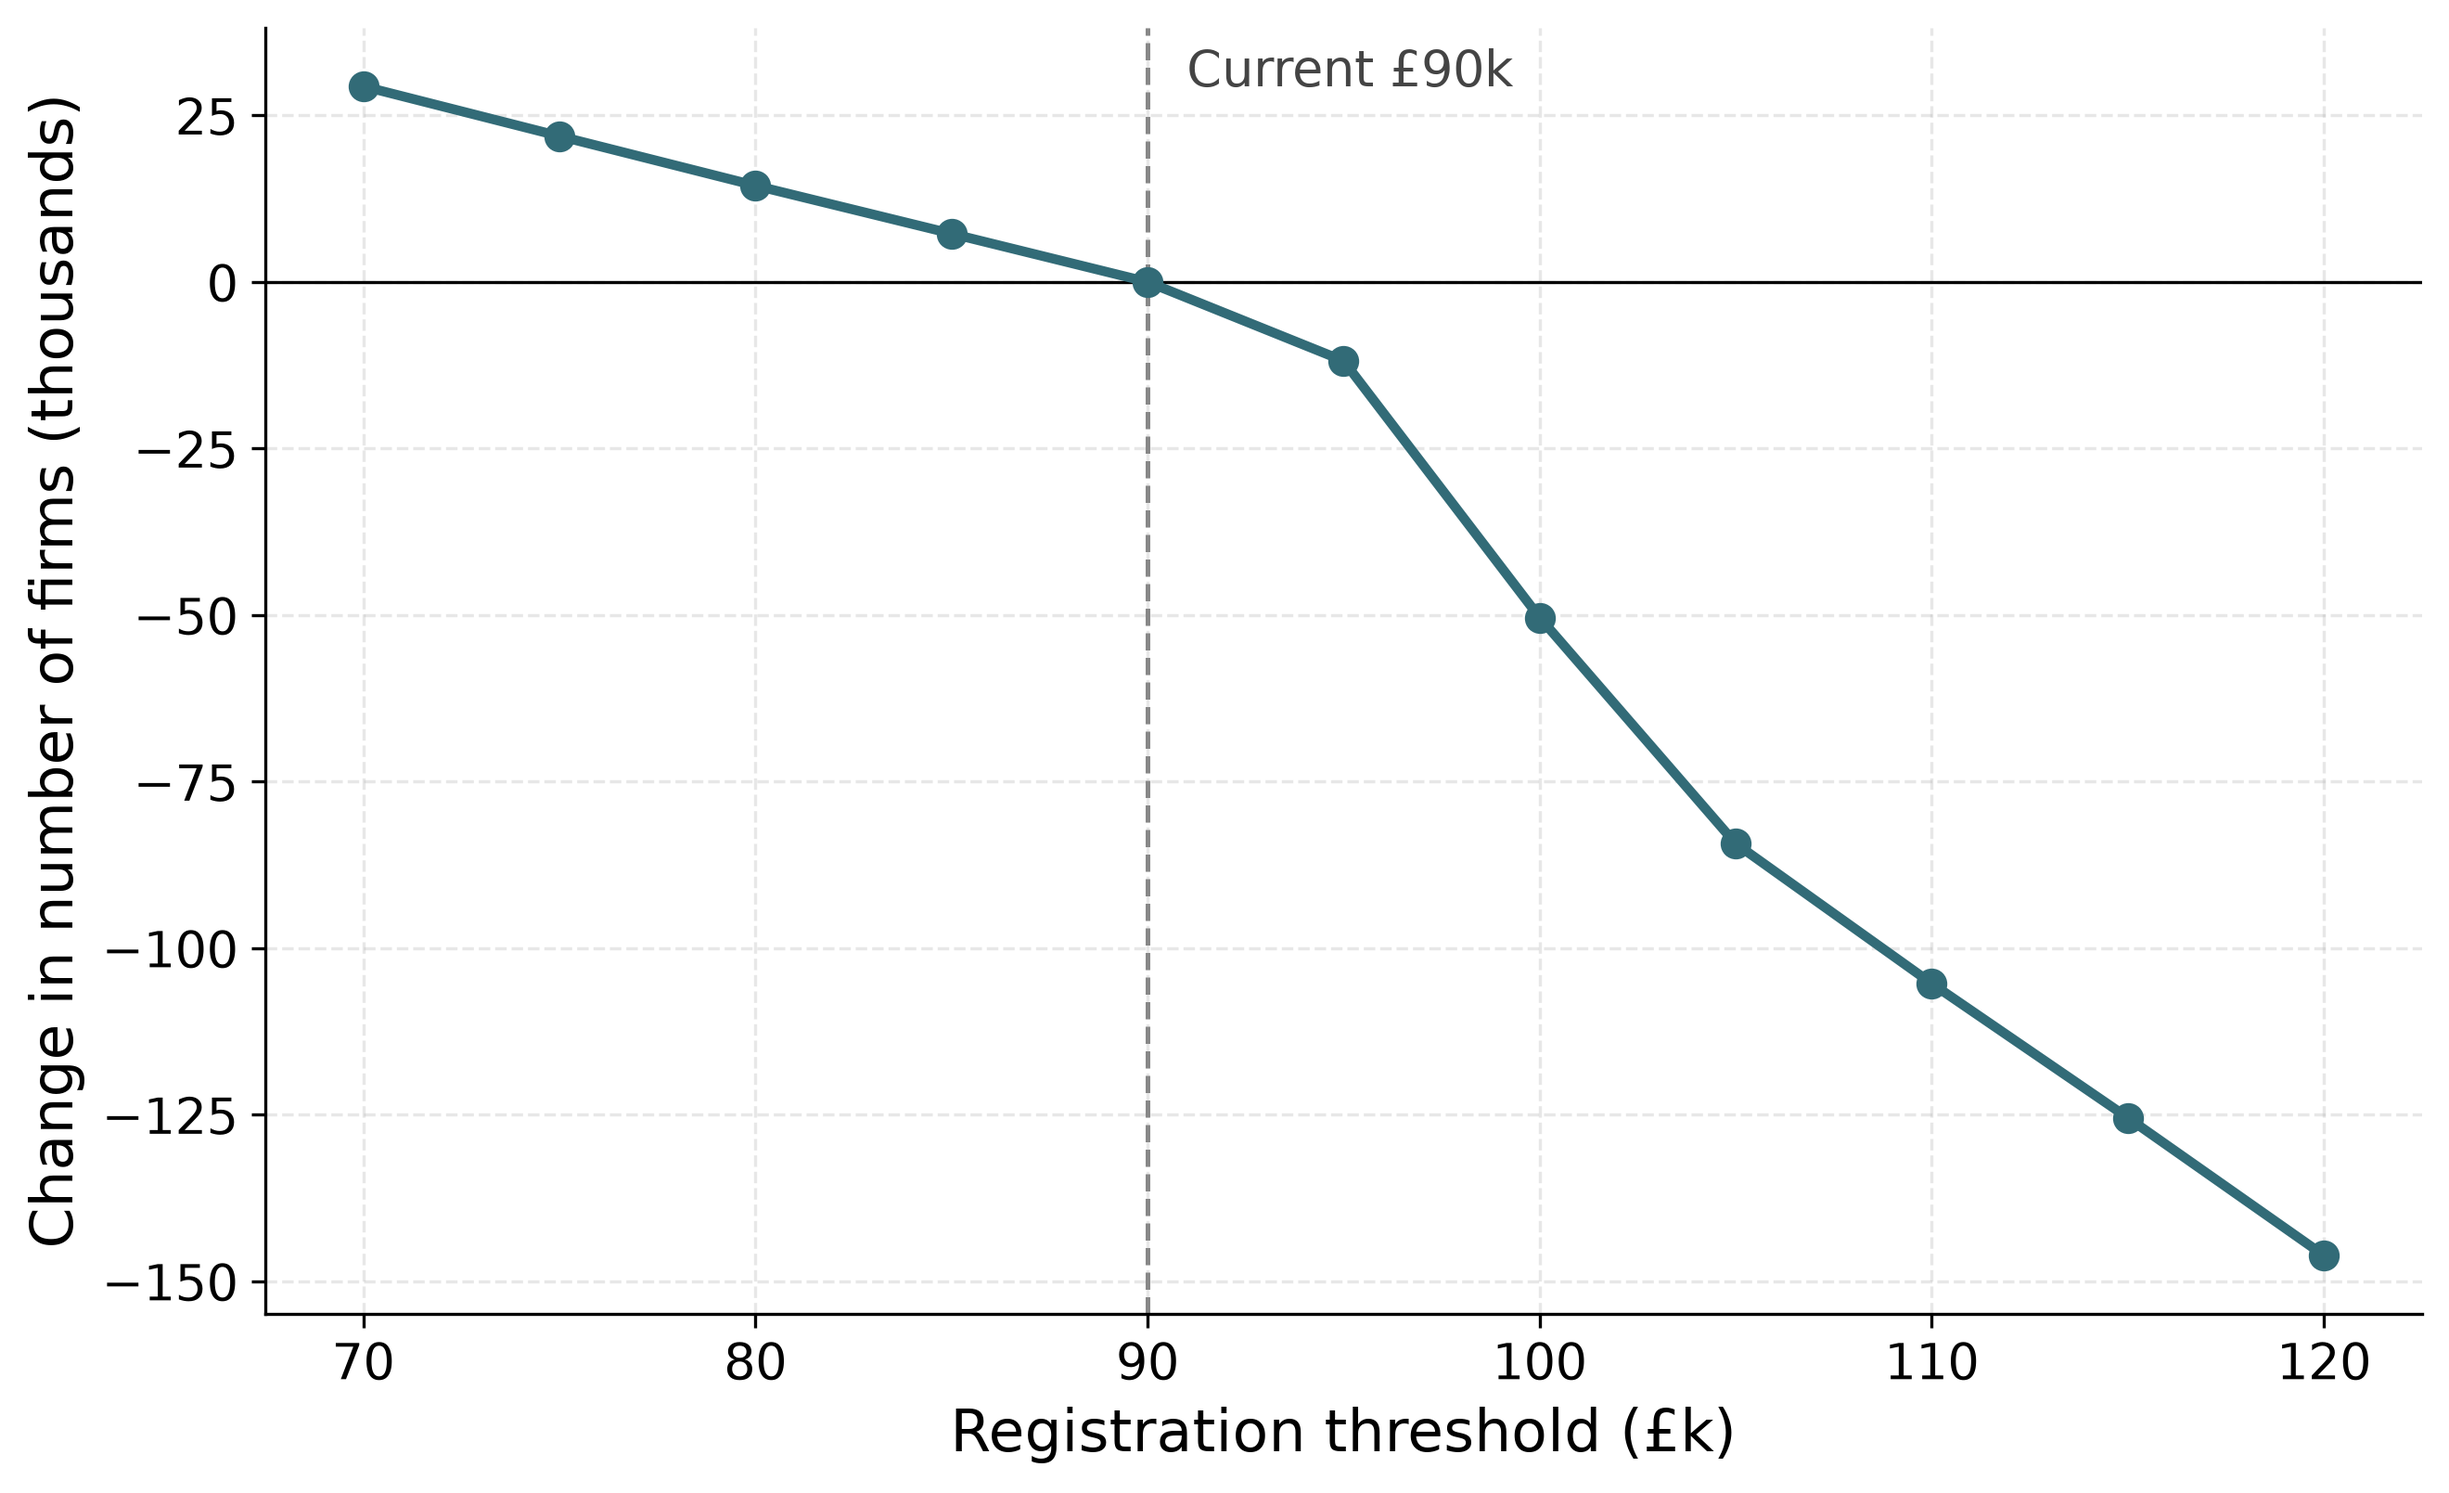
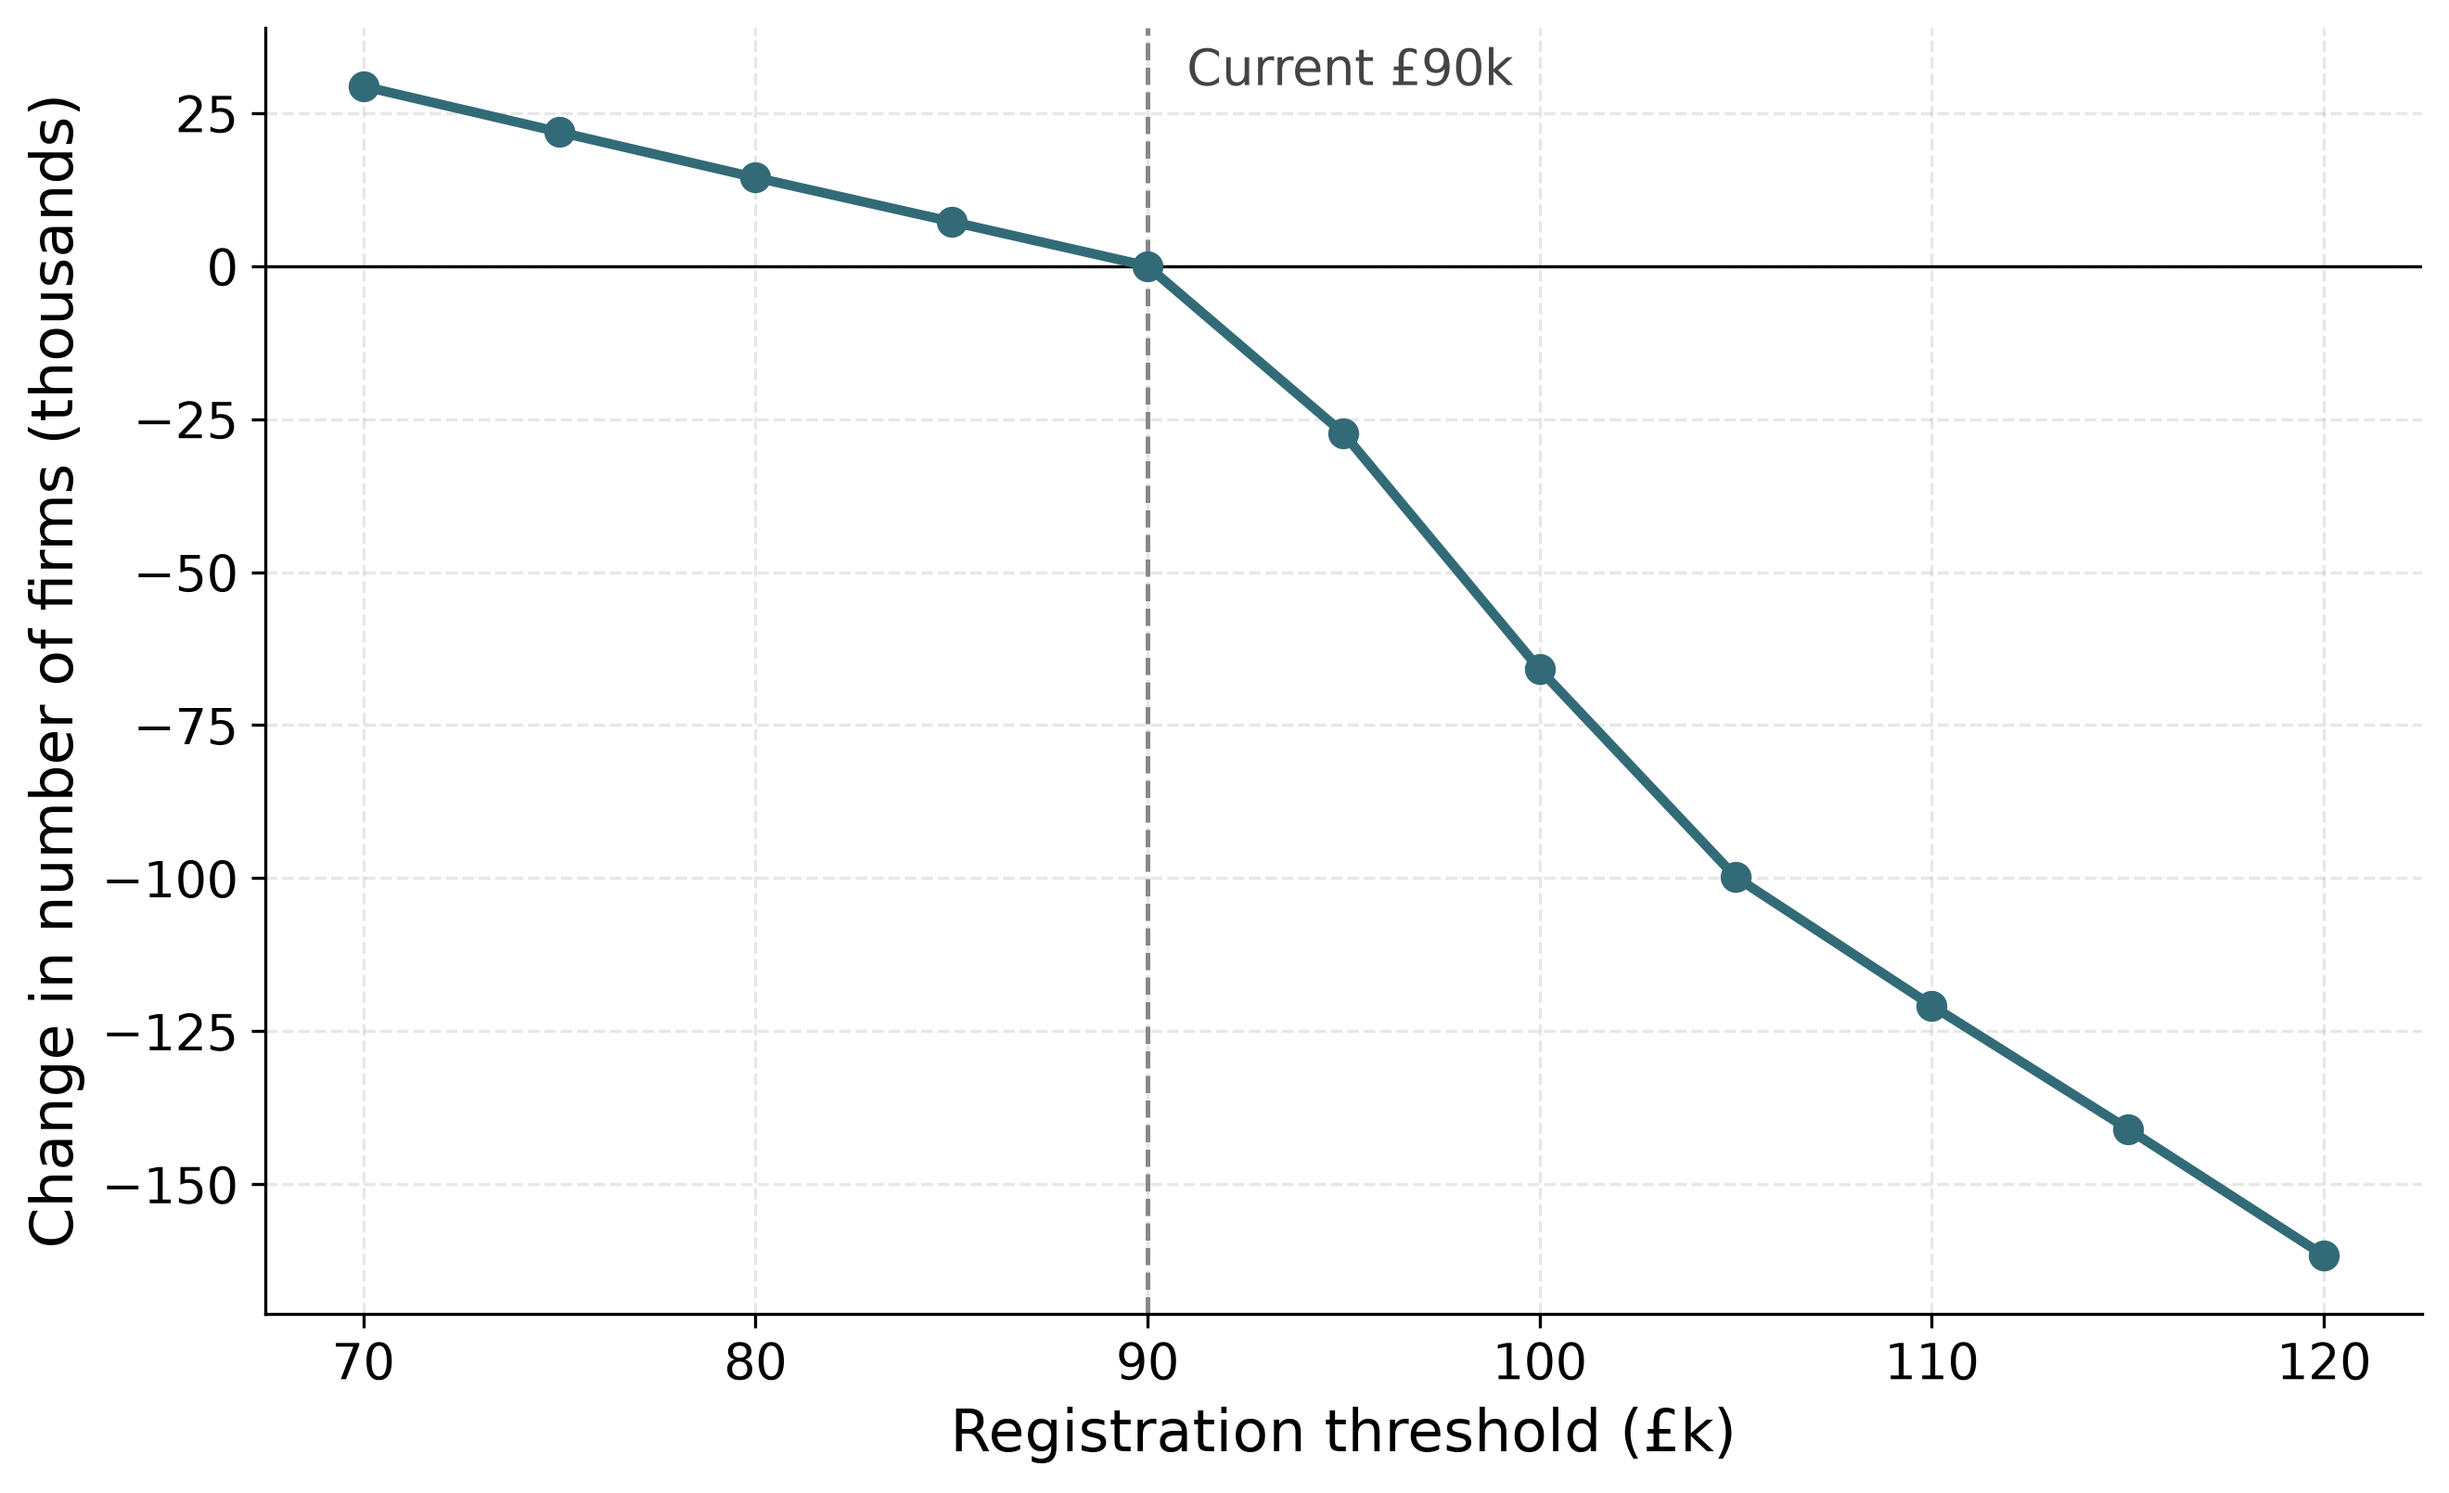
Paper: registration rule as implemented, anchor narrative for the final run, resync static figures
The displayed R(T) now matches StaticVATModel._registered (voluntary
registrants unchanged only where never required; data-year registrants
gap-protected). The anchor prose and Figure 4 caption describe the headline
that overshoots HMRC in every release year rather than the superseded
fixed-preference run. Static figures re-synced after the last rule change;
README anchor bullet and seed-dispersion numbers updated; 2024-25 y_R marked
censored; Figure 3 caption says in-scope counts.

diff --git a/paper/Sections/static.tex b/paper/Sections/static.tex
@@ -5,21 +5,24 @@ A static costing measures the first-order revenue effect of a reform by re-apply
 the tax rule to a fixed firm population, with no behavioural response. Let firm $i$
 have turnover $y_i$, calibrated net VAT liability $v_i = \tau(y_i - x_i)$
 (Section~\ref{sec:data}), weight $w_i$, scope flag $s_i$ (one for firms in
-the VAT net), and baseline voluntary-registration flag $r_i$ (one for firms
-registered below the data-year threshold). A firm remits VAT only once
-registered. Under a counterfactual threshold $T$ an in-scope firm is
-registered when its turnover is at or above $T$; a firm registered at the
-data-year threshold stays registered until its turnover falls below the
-deregistration threshold $T-g$, where $g=\pounds2{,}000$ is the statutory
-gap; voluntary registrants stay registered; out-of-scope firms never remit.
-Total VAT revenue at threshold $T$ is therefore
+the VAT net), data-year registration flag $q_i$, and baseline
+voluntary-registration flag $r_i$ (one for firms registered with data-year
+turnover at or below the data-year threshold $T_0$). A firm remits VAT only
+once registered. Under a counterfactual threshold $T$, evaluated on turnover
+$y_i$ aged to the fiscal year, an in-scope firm is registered when its turnover
+is at or above $T$; a firm registered at the data year stays registered until
+its turnover falls below the deregistration threshold $T-g$, where
+$g=\pounds2{,}000$ is the statutory gap; a voluntary registrant is unchanged
+where it was never required to register ($y_i<T_0$), while one that ageing
+carries into a band the move releases is released unless gap-protected;
+out-of-scope firms never remit. Total VAT revenue at threshold $T$ is therefore
 \[
-  R(T) \;=\; \sum_i w_i\, v_i \,
-  \mathbf{1}\bigl\{\, s_i\,[\,y_i \ge T \;\lor\; (m_i \land y_i \ge T-g)\,]
-  \;\lor\; r_i \,\bigr\},
+  R(T) \;=\; \sum_i w_i\, v_i\, s_i \,
+  \mathbf{1}\bigl\{\, y_i \ge T \;\lor\; (q_i \land y_i \ge T-g)
+  \;\lor\; (r_i \land y_i < T_0) \,\bigr\},
 \]
-with $m_i$ the data-year mandatory-registration flag. Three conventions follow
-and are worth stating. First, because voluntary registrants already remit, a
+which reproduces the baseline registered set at $T=T_0$. Three conventions
+follow and are worth stating. First, because voluntary registrants already remit, a
 threshold cut credits only the liability of in-scope firms that are newly drawn
 into the net; with about 89\% of below-threshold frame enterprises already
 registered (Section~\ref{sec:data}), that is a small population, and the cut
@@ -73,13 +76,11 @@ $-$250, $-$234, $-$200, $-$65, $+$123: it reproduces the sign of the first two y
 turning point and lands within \pounds49m of the official 2025--26
 figure without any retention assumption, because only in-scope firms
 between the old threshold and the new \pounds88{,}000 deregistration threshold
-can leave the net. The profile's middle years differ in shape: once the
-counterfactual threshold reaches \pounds87{,}000 and \pounds89{,}000, almost
-no firm registered at \pounds85{,}000 sits between it and the
-\pounds88{,}000 deregistration point, so the static model's impact falls
-towards zero in 2027--28 where HMRC's $-$50m reflects a flow of new
-businesses that would have registered under the lower threshold---an
-entry margin a fixed cross-section cannot represent. Three sensitivities
+can leave the net. The model still overshoots every release year, and by
+proportionally more in the middle of the profile ($-$200m against $-$125m in
+2026--27): the official costing embeds a phased registration response that
+narrows its profile faster than the mechanical reclassification here, which
+has none. Three sensitivities
 bracket the headline. Releasing the whole $[T_{\text{base}},\pounds90{,}000)$
 band regardless of the deregistration threshold gives $-$346, $-$382, $-$218, $-$65, $+$130, the
 overshoot of earlier drafts. Retaining the \citet{liuetal2021}
@@ -109,8 +110,9 @@ HMRC's published costing, 2024--25 to 2028--29. Both series narrow over the
 forecast and turn positive by 2028--29 because the costing baseline is a
 counterfactual threshold path that resumes uprating after March~2026 and
 overtakes \pounds90{,}000. The model releases in-scope firms only below the
-\pounds88{,}000 deregistration threshold; its 2027--28 impact is near zero
-because a fixed cross-section has no entry margin. Because the microdata are calibrated
+\pounds88{,}000 deregistration threshold and embeds no registration response,
+so it overshoots the official profile in every release year; the 43\%
+retention convention (text) undershoots it. Because the microdata are calibrated
 to HMRC and OBR aggregates, this is a consistency check, not an out-of-sample
 validation.}
 \label{fig:hmrc_validation}

diff --git a/paper/Sections/model.tex b/paper/Sections/model.tex
@@ -124,7 +124,7 @@ within-band shape. It is the width $a$, not the count, that is exact.
 
 \begin{figure}[htbp]\centering
 \includegraphics[width=0.96\textwidth]{figures/dynamic_notch_fit_e017.png}
-\caption{The VAT notch and the firm distribution. Panel (a) shows net revenue before production costs: immediately above \pounds85{,}000, VAT reduces it from $y$ to $0.8y$, making turnover in $(\pounds85{,}000,\,\pounds106{,}250)$ strictly dominated. Panel (b) shows the three-bin moving mean of weighted 2023--24 synthetic firm counts, with the same interval shaded. The distribution is descriptive and target-inherited, not the outcome of behavioural optimisation; its step at \pounds100{,}000 reflects the boundary between coarse ONS source bands, not an empty turnover interval. The exact dominated width is $a=\pounds21{,}250$.}
+\caption{The VAT notch and the firm distribution. Panel (a) shows net revenue before production costs: immediately above \pounds85{,}000, VAT reduces it from $y$ to $0.8y$, making turnover in $(\pounds85{,}000,\,\pounds106{,}250)$ strictly dominated. Panel (b) shows the three-bin moving mean of weighted 2023--24 in-scope synthetic firm counts, with the same interval shaded. The distribution is descriptive and target-inherited, not the outcome of behavioural optimisation; its step at \pounds100{,}000 reflects the boundary between coarse ONS source bands, not an empty turnover interval. The exact dominated width is $a=\pounds21{,}250$.}
 \label{fig:notch_fit}
 \end{figure}
 

diff --git a/paper/Sections/conclusion.tex b/paper/Sections/conclusion.tex
@@ -66,10 +66,10 @@ VAT/PAYE frame with an HMRC-calibrated registered subset: threshold cuts are
 therefore costed only on frame enterprises, most of which are already
 registered, and omit the unregistered sole traders outside the frame that a
 lower threshold would mainly reach; extending the frame to the DBT business
-population is the natural next build. A fixed cross-section also has no entry
-margin, which is why the anchor's middle years fall short of HMRC's profile.
-The nominal-growth factors used for ageing are assumptions recorded in the
-replication repository. It also cannot capture persistent
+population is the natural next build. A fixed cross-section also has no
+registration response or entry margin, so the anchor brackets HMRC's profile
+only through explicit deregistration conventions. The nominal-growth factors
+used for ageing are assumptions recorded in the replication repository. It also cannot capture persistent
 growth effects extending beyond the cutoff, as documented for a different
 payroll-tax notch by \citet{jysmabenzartiharju2026}. Those estimates do not
 transfer directly to UK VAT. Administrative firm-level validation, an explicit

diff --git a/paper/Appendix/a_inference.tex b/paper/Appendix/a_inference.tex
@@ -87,7 +87,7 @@ standard errors are not reported---see the text.}
 Vintage & $E$ & $\Delta_R$ & $b_{\mathrm{LLAT}}$ & $y_R$ (\pounds k) \\
 \midrule
 2023--24 (\pounds85k, OBR fine targets) & $5{,}498$ & $0$ & $5.357$ & $100.0$ (censored) \\
-2024--25 (\pounds90k, coarse bands only) & $10{,}273$ & $4{,}890$ & $4.971$ & $105.0$ \\
+2024--25 (\pounds90k, coarse bands only) & $10{,}273$ & $4{,}890$ & $4.971$ & $105.0$ (censored) \\
 \bottomrule
 \end{tabular}
 \end{table}

diff --git a/README.md b/README.md
@@ -209,8 +209,9 @@ remains a true total. A vintage builds in ~15 seconds instead of ~13 minutes;
 headline aggregates reproduce the full build within ~0.3% and local bunching
 statistics within ~5%. Use for development only — release artifacts are
 full-size. Generator-seed sensitivity of the full build is recorded in
-`results/seed_sensitivity.txt` (E ±111, raise ±£1.4m / taper ±£0.3m across
-seeds; reproduce with `scripts/seed_sensitivity.py`).
+`results/seed_sensitivity.txt` (E ±166, raise ±£1.1m / taper ±£1.1m, base
+±£0.45bn across seeds — the scope flag is a seeded draw; reproduce with
+`scripts/seed_sensitivity.py`).
 
 ## Populace/Ledger migration check
 
@@ -300,12 +301,14 @@ firm-microsim-static          # -> results/{vat_threshold_revenue_impact,revenue
 
 - `vat_threshold_revenue_impact.png` — the £85k→£90k anchor reform vs HMRC's
   published costing, by fiscal year. **Built on the £85k / 2023-24 vintage** —
-  the pre-reform basis HMRC actually had at the 6 March 2024 costing (the
-  threshold was still £85k until 1 April 2024). Full-deregistration model
-  −357/−364/−224/−78/+119 vs HMRC −150/−185/−125/−50/+65 £m (43% voluntary
-  retention: −203/−207/−128/−44/+68); both turn positive by 2028-29. The gap
-  shows that registration dynamics and population scope matter. See
-  `results/static_sweep.txt`.
+  the pre-reform basis HMRC actually had at the 6 March 2024 costing. Each year
+  differences revenue under the £90k policy and under the counterfactual
+  threshold path (85/85/87/89/92k), releasing in-scope firms only below the
+  £88k deregistration threshold: −250/−234/−200/−65/+123 vs HMRC
+  −150/−185/−125/−50/+65 £m; with 43% voluntary retention −142/−134/−114/−37/+123.
+  HMRC's figures lie between the two conventions in every release year. See
+  `results/static_sweep.txt` for the whole-band and fixed-preference
+  sensitivities.
 - `revenue_impact_2025_26.png` / `firms_impact_2025_26.png` — the forward static
   sweep of registration thresholds (£70k–£120k) vs the current £90k baseline,
   **on the £90k / 2024-25 vintage**.
